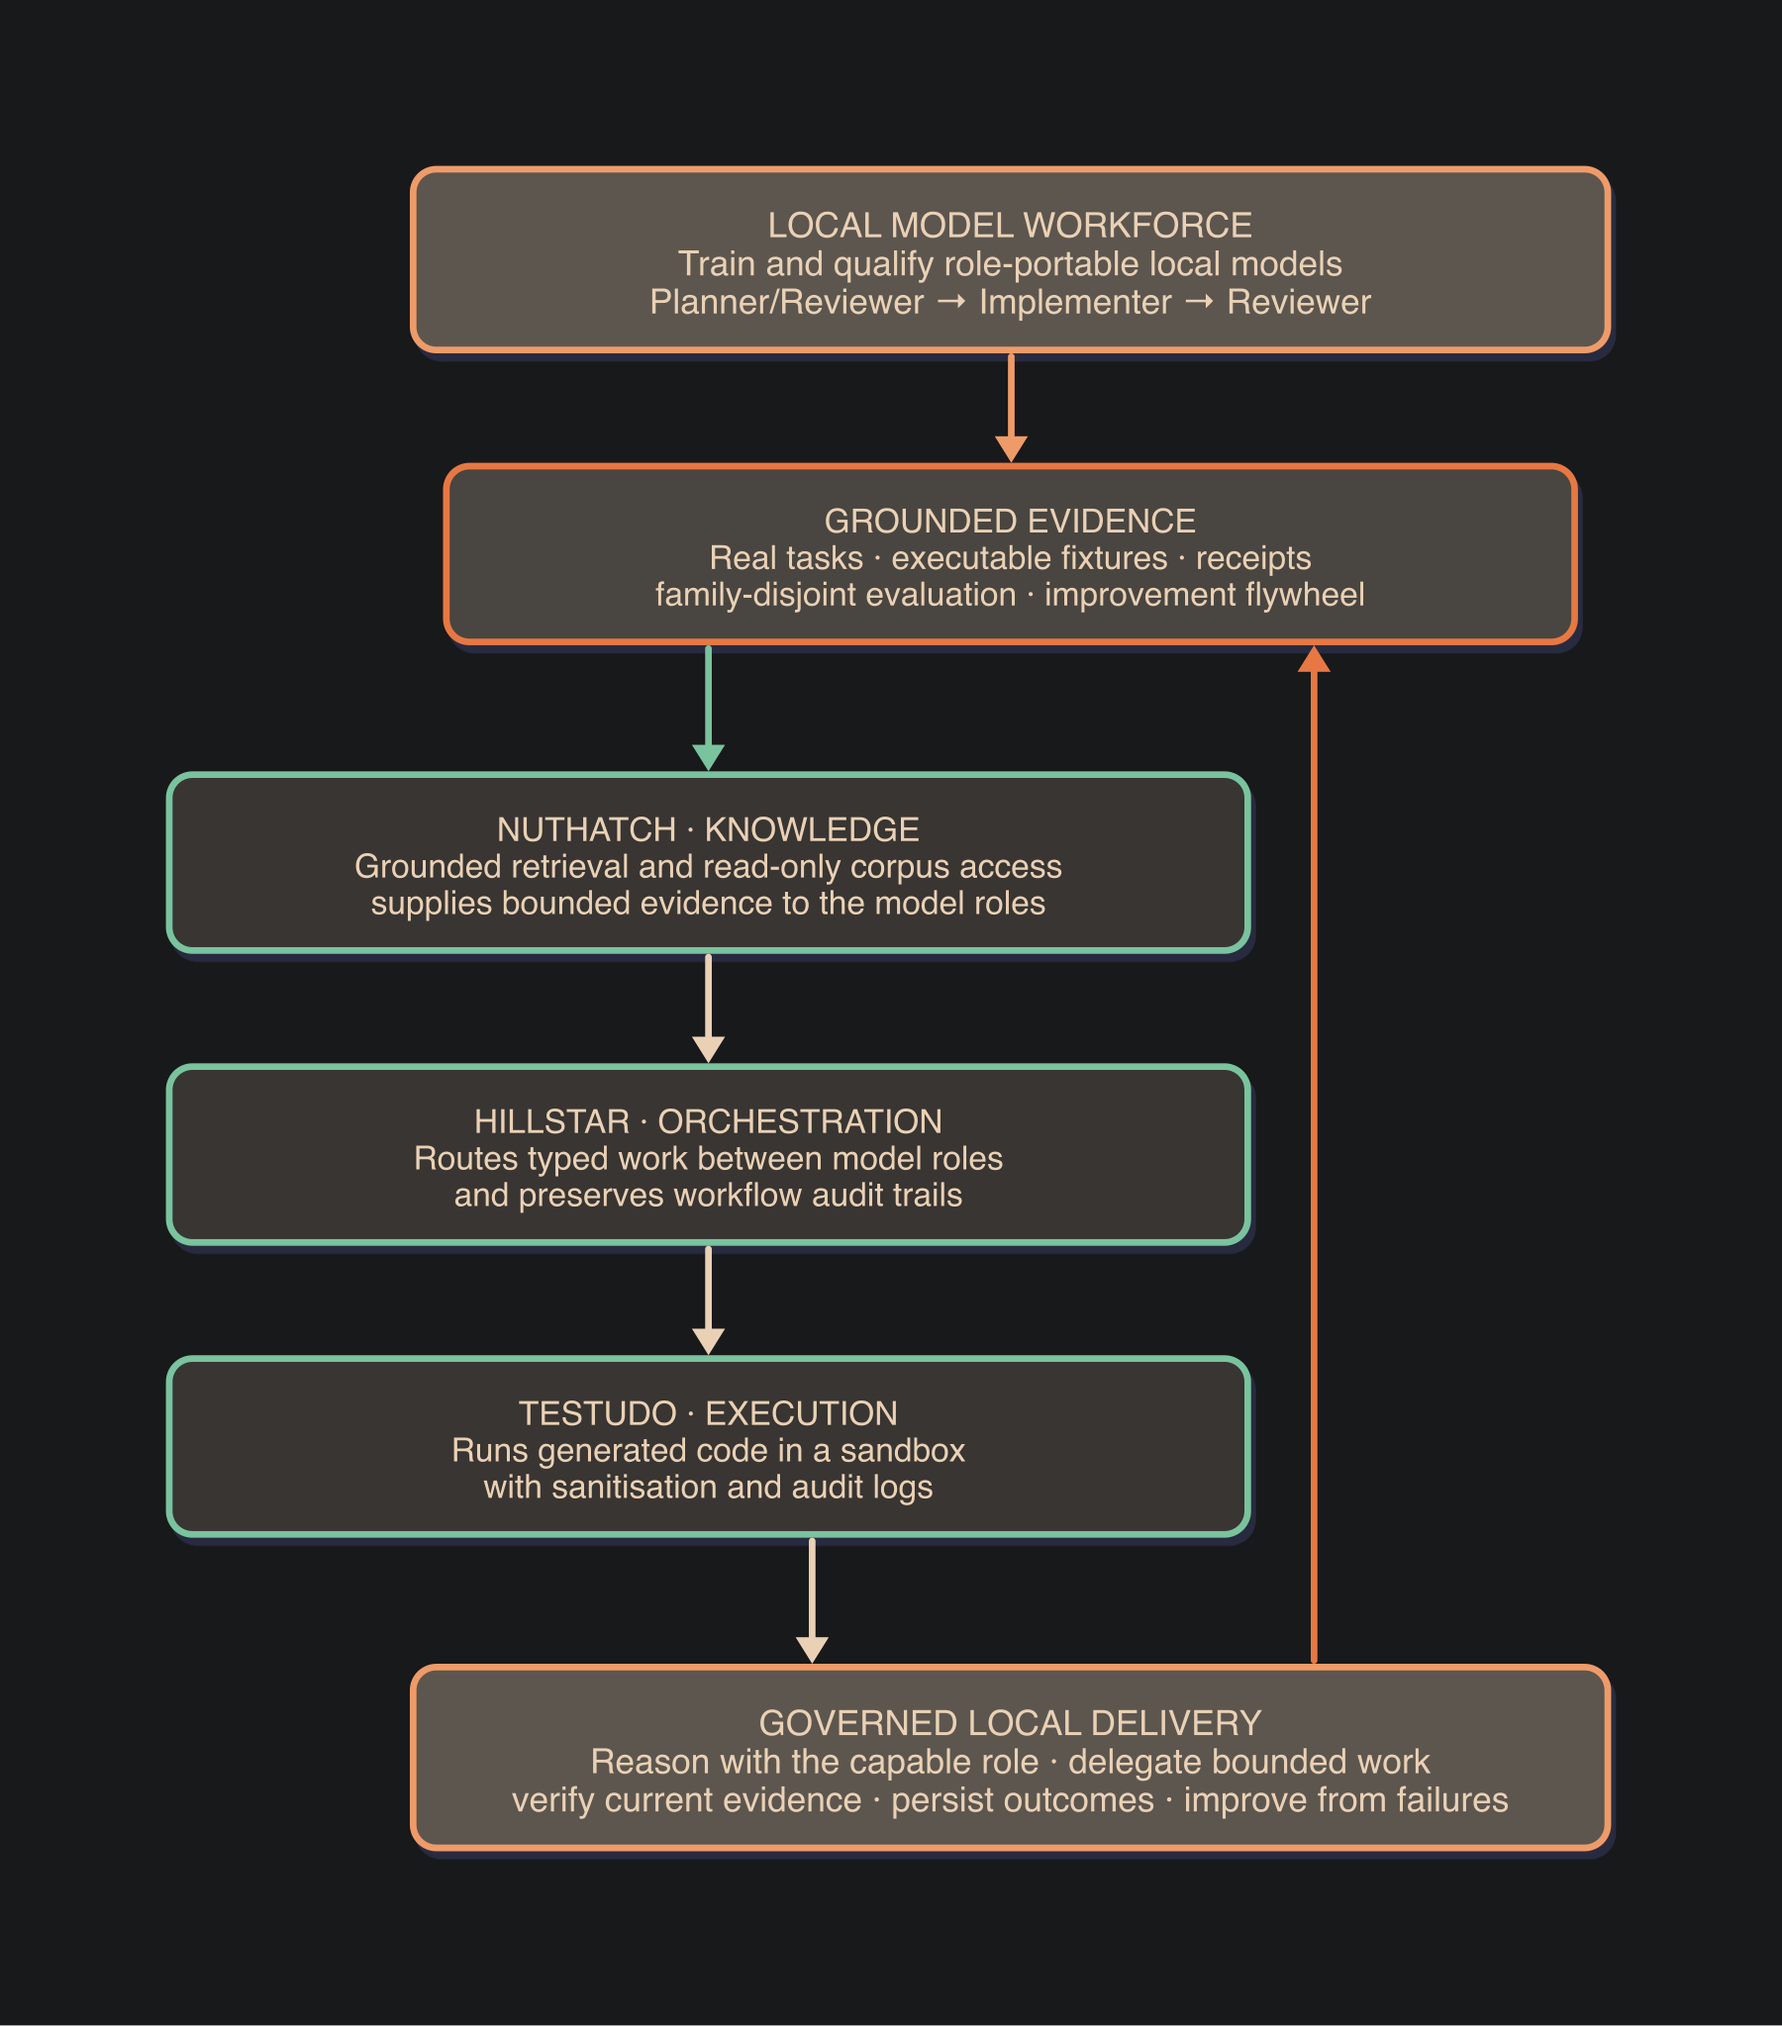
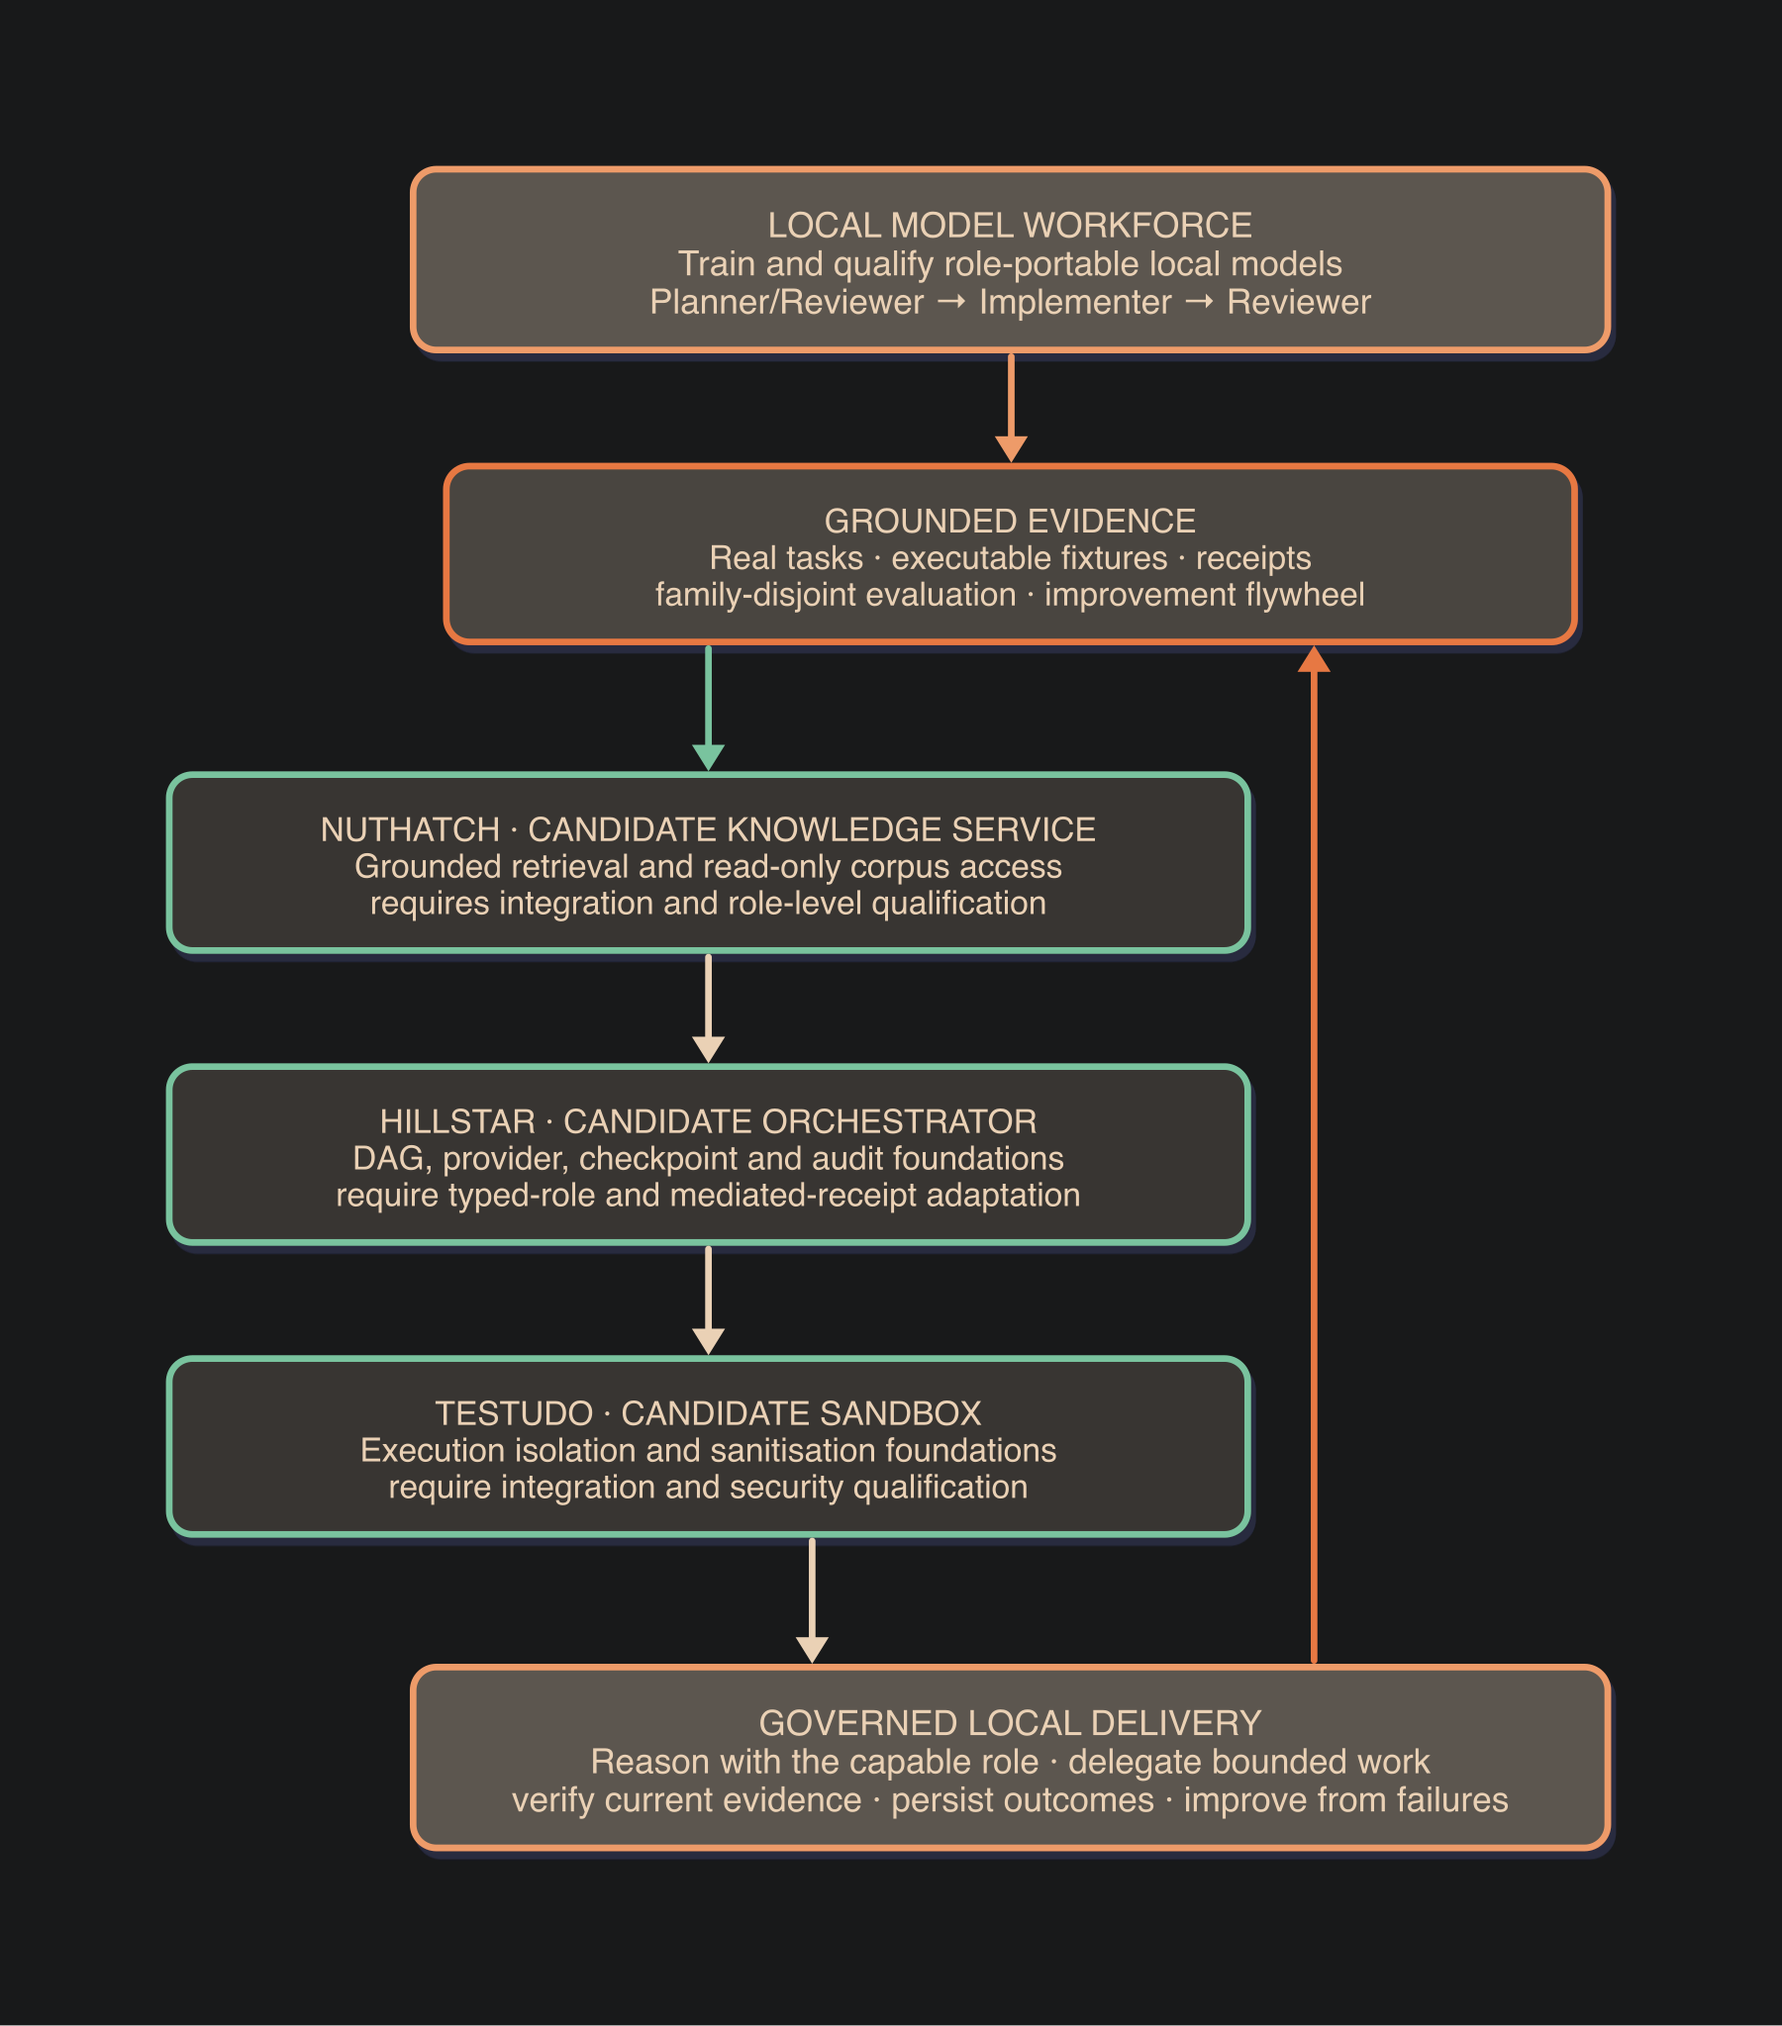
docs: qualify candidate tool integrations

Changed region(s): [[0.1867, 0.5232, 0.5911, 0.6155], [0.1867, 0.4001, 0.6222, 0.4617], [0.2178, 0.6771, 0.5911, 0.7386]]

diff --git a/README.md b/README.md
@@ -83,6 +83,11 @@ that ties both together.
   keep capable local reasoning while moving repeatable implementation
   into a cheaper role that follows the agreed contract.
 
+  The diagram shows a candidate integration path. Nuthatch, Hillstar
+  and Testudo are related foundations, not a currently integrated
+  Local Model Workforce runtime. Each component requires adaptation
+  and qualification against the role contracts and control boundaries.
+
 <p align="center">
   <img src="assets/local-model-workforce-overview.png" alt="Local Model Workforce and related tools" width="100%">
 </p>
